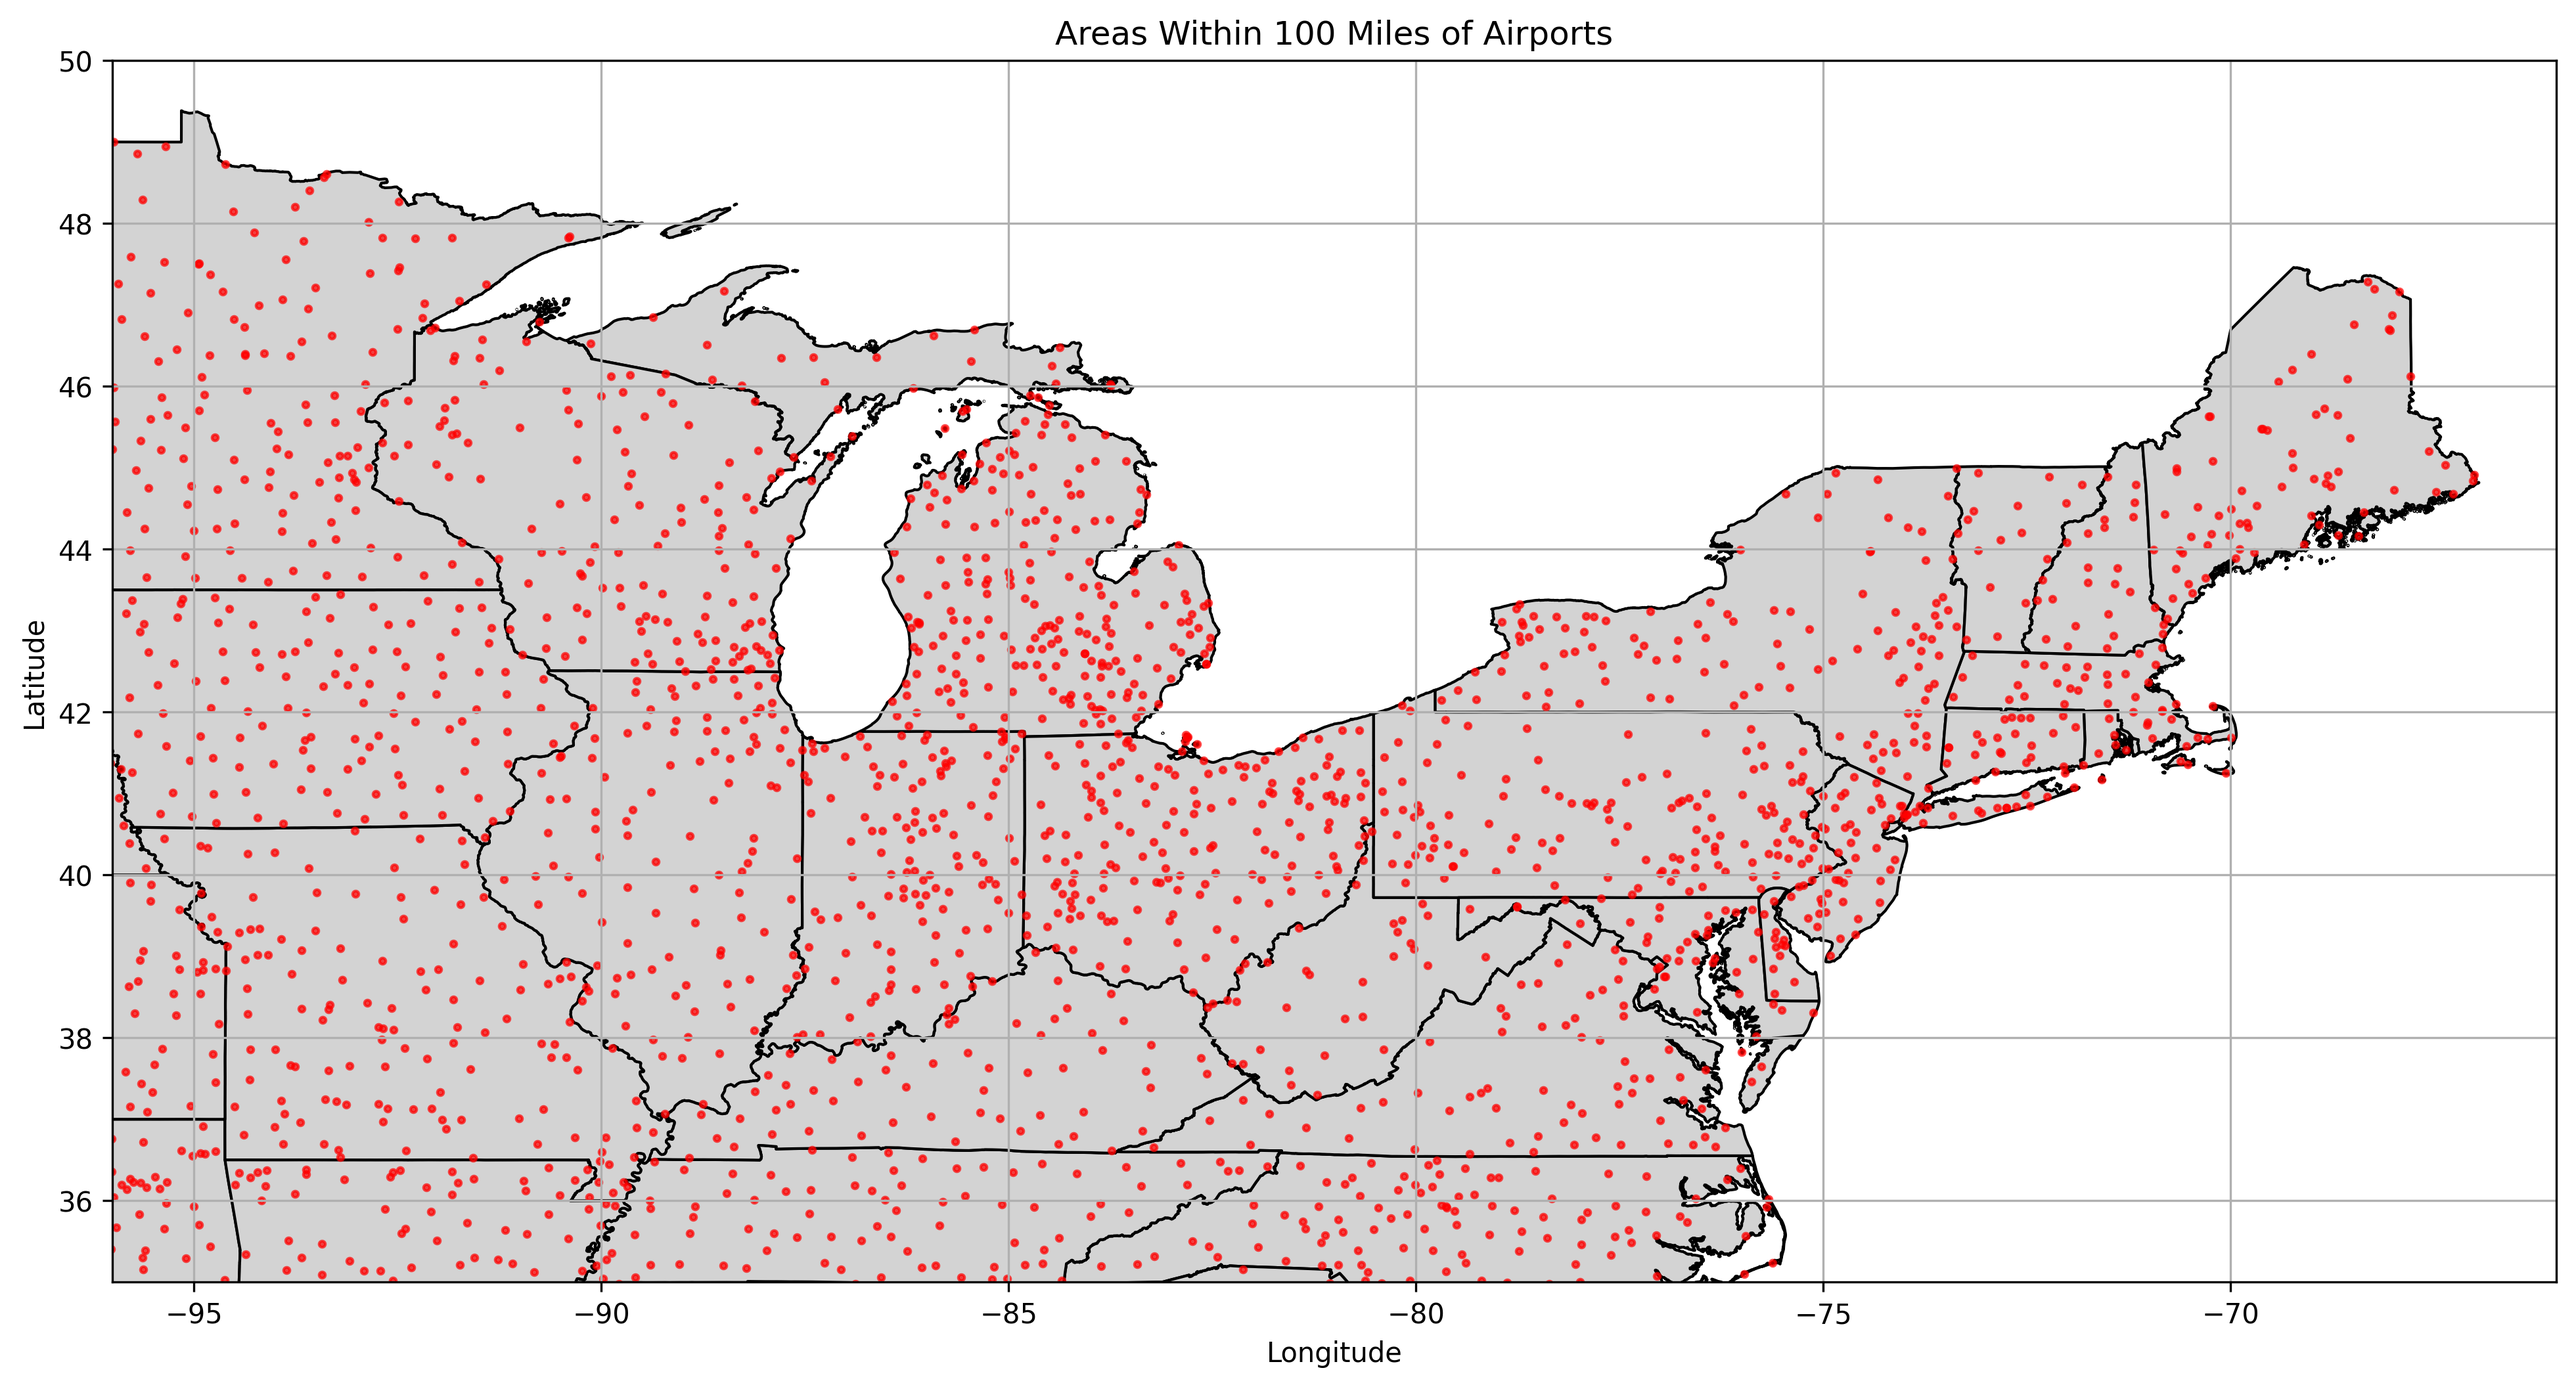
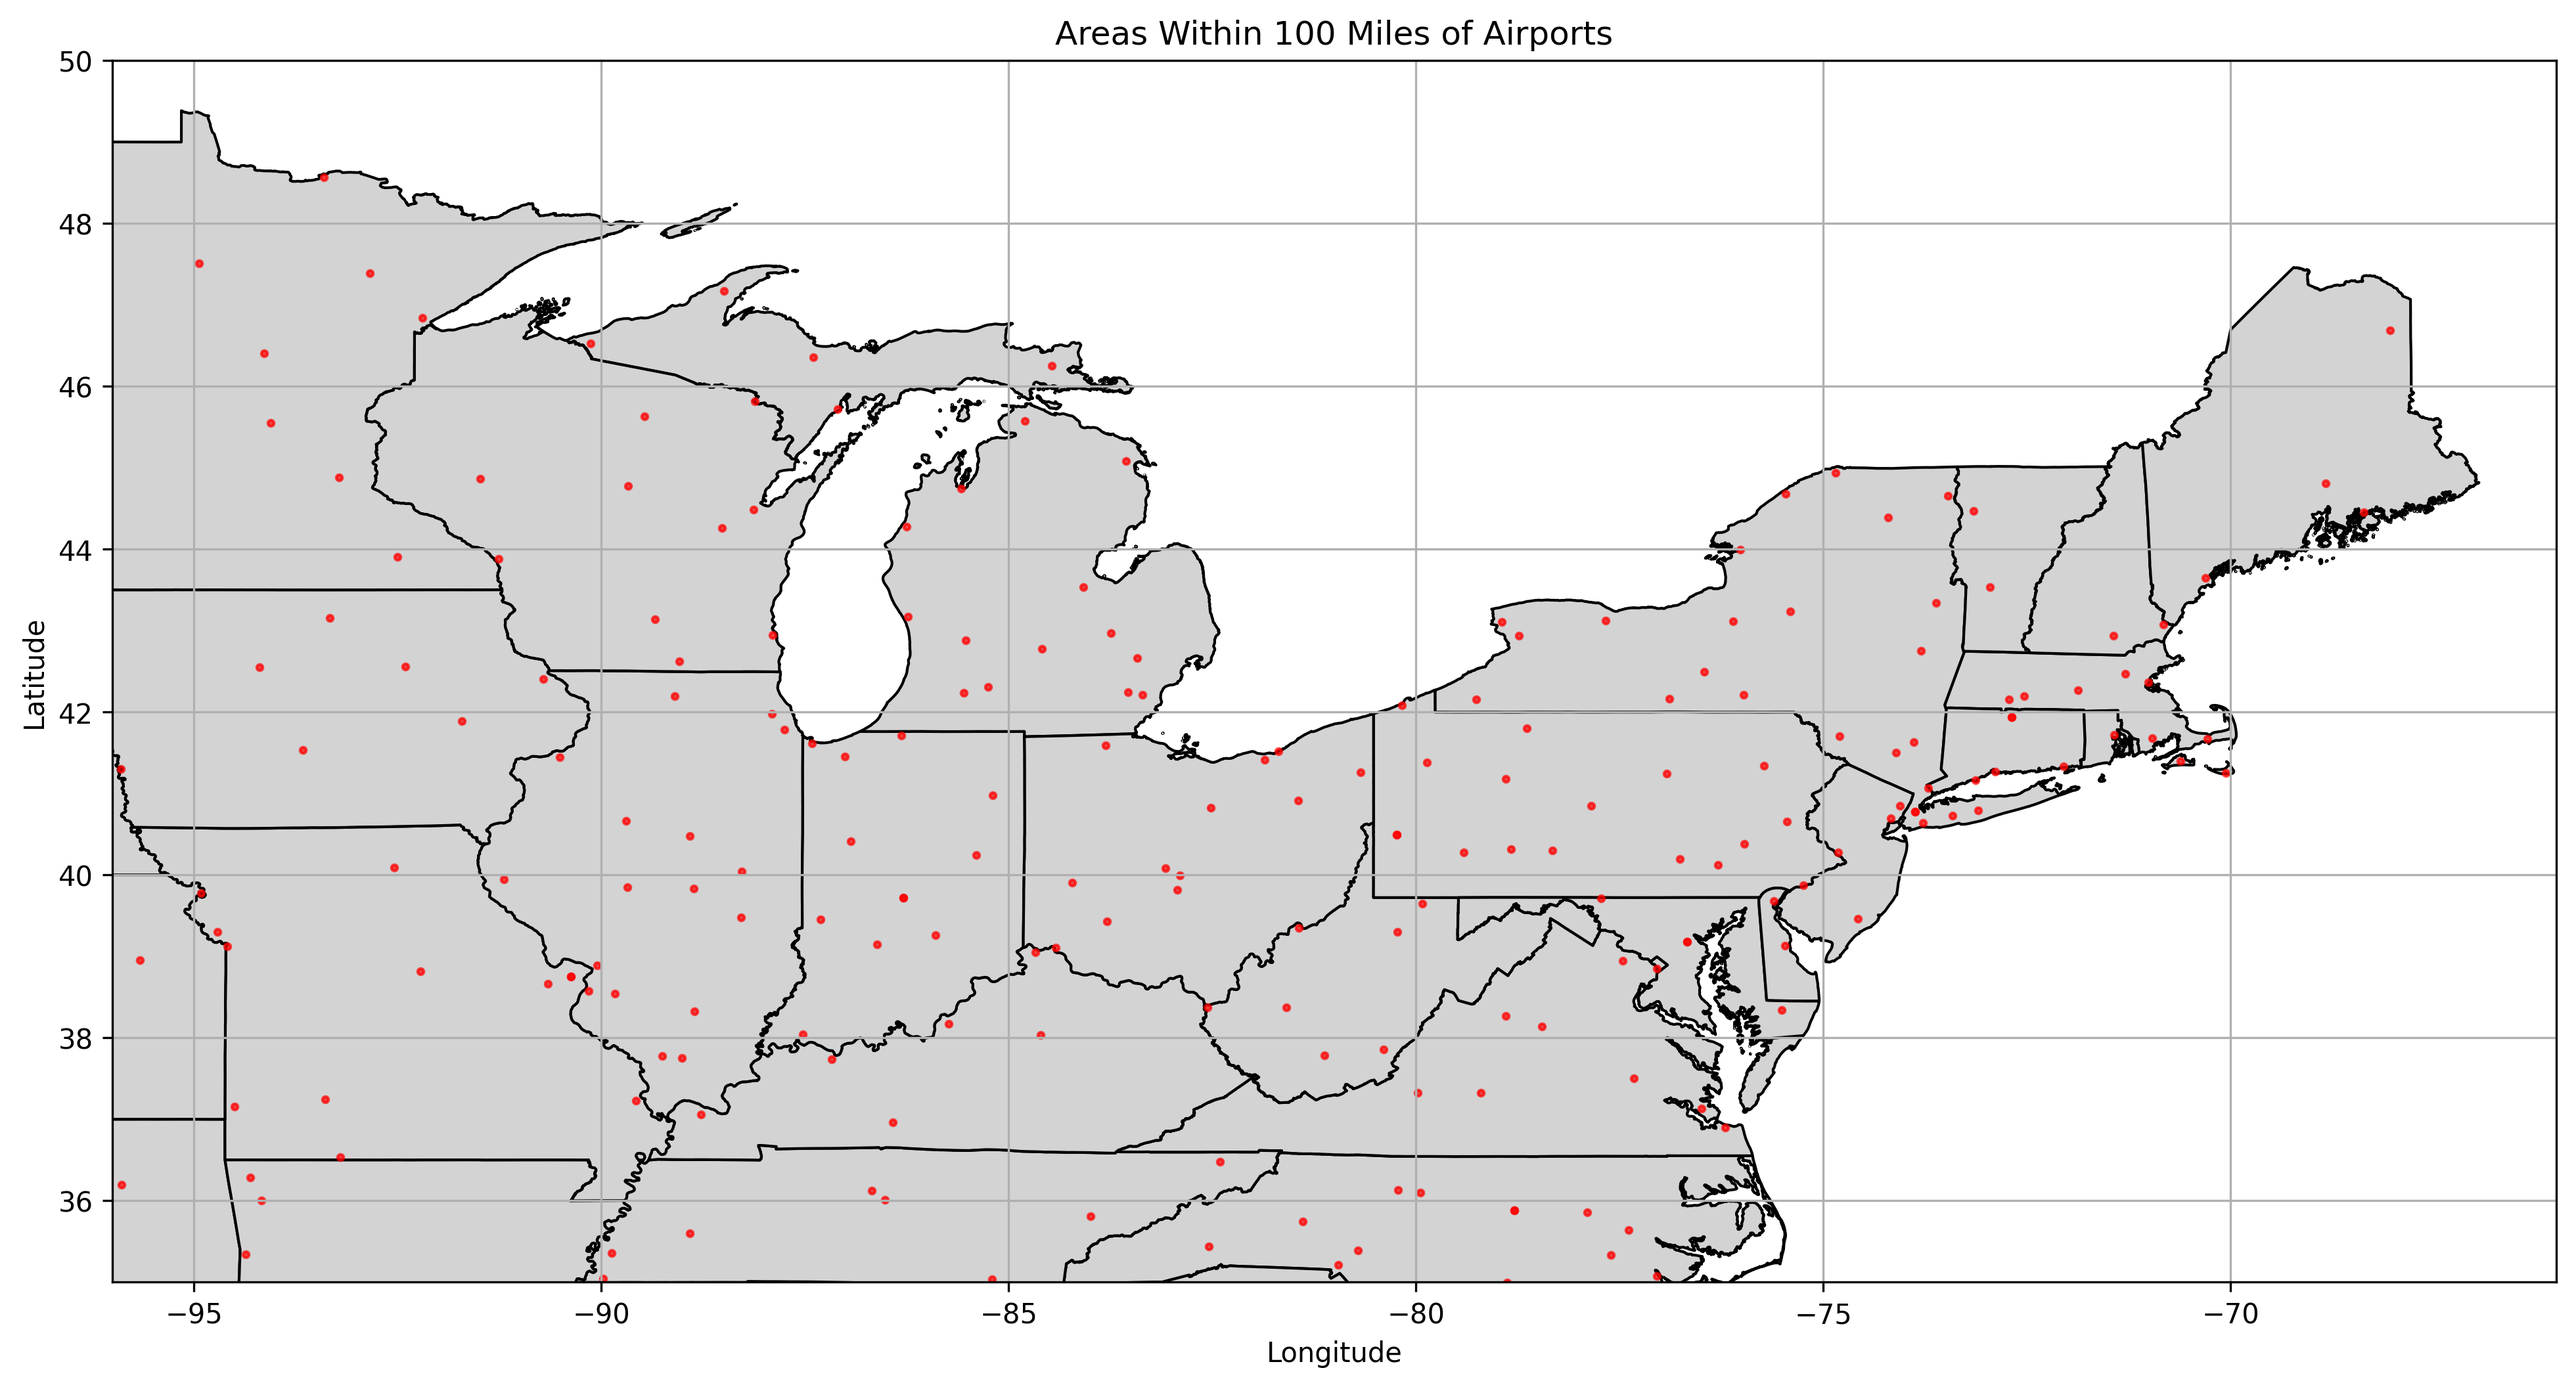
working on airports

diff --git a/src/run.py b/src/run.py
@@ -1,53 +1,37 @@
 import pandas as pd
 import geopandas as gpd
-from shapely.geometry import Point
 import matplotlib.pyplot as plt
+import structlog as sl
 
 from src.constants import BOUNDING_BOX
+from src.utils import dms_to_decimal
 
-def dms_to_decimal(dms):
-    try:
-        # Remove directional letters and split the DMS string into components
-        dms = dms.strip().upper()  # Ensure consistent formatting
-        parts = dms.replace('W', '').replace('E', '').replace('N', '').replace('S', '').split('-')
-        
-        # Ensure the DMS string has exactly 3 components (degrees, minutes, seconds)
-        if len(parts) != 3:
-            raise ValueError(f"Invalid DMS format: {dms}")
-        
-        degrees = float(parts[0])
-        minutes = float(parts[1])
-        seconds = float(parts[2])
-        
-        # Convert to decimal degrees
-        decimal = degrees + (minutes / 60) + (seconds / 3600)
-        
-        # Handle negative values for west and south coordinates
-        if 'W' in dms or 'S' in dms:
-            decimal = -decimal
-        
-        return decimal
-    except Exception as e:
-        print(f"Error converting DMS to decimal: {e}")
-        return None  # Return None for invalid DMS strings
-
-# Example DMS strings
-dms_values = [
-    "176-38-32.9277W",
-    "37-46-44.9277N",
-    "122-25-9.9277W",
-    "INVALID-DMS"
-]
-
-# Convert DMS to decimal degrees
-for dms in dms_values:
-    print(f"DMS: {dms} -> Decimal: {dms_to_decimal(dms)}")
+logger = sl.get_logger(__name__)
 
 # Load airport data
 airports = pd.read_csv('data/usairports.csv')  # Replace with your actual file path
 
 # public only
 airports = airports[airports.use == 'PU']
+
+airports.columns
+airports.head()
+
+# # checkout some airports we know for cert types
+# airports[airports.location_id.str.contains('RDU')].to_dict(orient='records')
+# airports[airports.location_id.str.contains('CLT')].to_dict(orient='records')
+# airports[airports.location_id.str.contains('ORF')].to_dict(orient='records')
+
+# airports[airports.state=='VA'].location_id.unique()
+
+# from rdu. gives 23 airports
+a = airports[airports.cert_type_date.str.contains('I D S', na=False)]
+
+# fromc lt. gives 28
+# b = airports[airports.cert_type_date.str.contains('I E S', na=False)]
+b = airports[airports.cert_type_date.str.contains('I', na=False)]
+
+airports = pd.concat([a, b], ignore_index=True)
 
 airports['arp_longitude'] = airports['arp_longitude'].apply(dms_to_decimal)
 airports['arp_latitude'] = airports['arp_latitude'].apply(dms_to_decimal)

diff --git a/src/utils.py b/src/utils.py
@@ -1,0 +1,23 @@
+def dms_to_decimal(dms):
+    try:
+        # Remove directional letters and split the DMS string into components
+        dms = dms.strip().upper()  # Ensure consistent formatting
+        parts = dms.replace('W', '').replace('E', '').replace('N', '').replace('S', '').split('-')
+        
+        # Ensure the DMS string has exactly 3 components (degrees, minutes, seconds)
+        if len(parts) != 3:
+            raise ValueError(f"Invalid DMS format: {dms}")
+
+        degrees, minutes, seconds = [float(x) for x in parts]
+        
+        # Convert to decimal degrees
+        decimal = degrees + (minutes / 60) + (seconds / 3600)
+        
+        # Handle negative values for west and south coordinates
+        if 'W' in dms or 'S' in dms:
+            decimal = -decimal
+        
+        return decimal
+    except Exception as e:
+        print(f"Error converting DMS to decimal: {e}")
+        return None  # Return None for invalid DMS strings

diff --git a/tests/test_utils.py b/tests/test_utils.py
@@ -1,0 +1,14 @@
+import pytest
+from src.run import dms_to_decimal
+
+@pytest.mark.parametrize("dms, expected", [
+    ("176-38-32.9277W", -176.64248097222222),
+    ("37-46-44.9277N", 37.77803547222222),
+    ("122-25-9.9277W", -122.41942436111111),
+    ("INVALID-DMS", None)
+])
+def test_dms_to_decimal(dms, expected):
+    if expected is None:
+        assert dms_to_decimal(dms) == expected
+    else:
+        assert dms_to_decimal(dms) - expected < 1e-2

diff --git a/README.md b/README.md
@@ -16,6 +16,7 @@ This repo uses these tools:
 These datasets need to be downloaded manually
 
 - `data/usaairports.csv` - https://openintro.org/data/index.php?data=usairports
+    - WARNING: i see some airports msising from this. need to data
 - `data/noaa/*` - run these bash commands from project root to get the data
     - `aws s3 sync s3://noaa-normals-pds/normals-annualseasonal/2006-2020/ data/noaa`
     - `aws s3 sync s3://noaa-normals-pds/normals-annualseasonal/access/ data/noaa/root_access`
